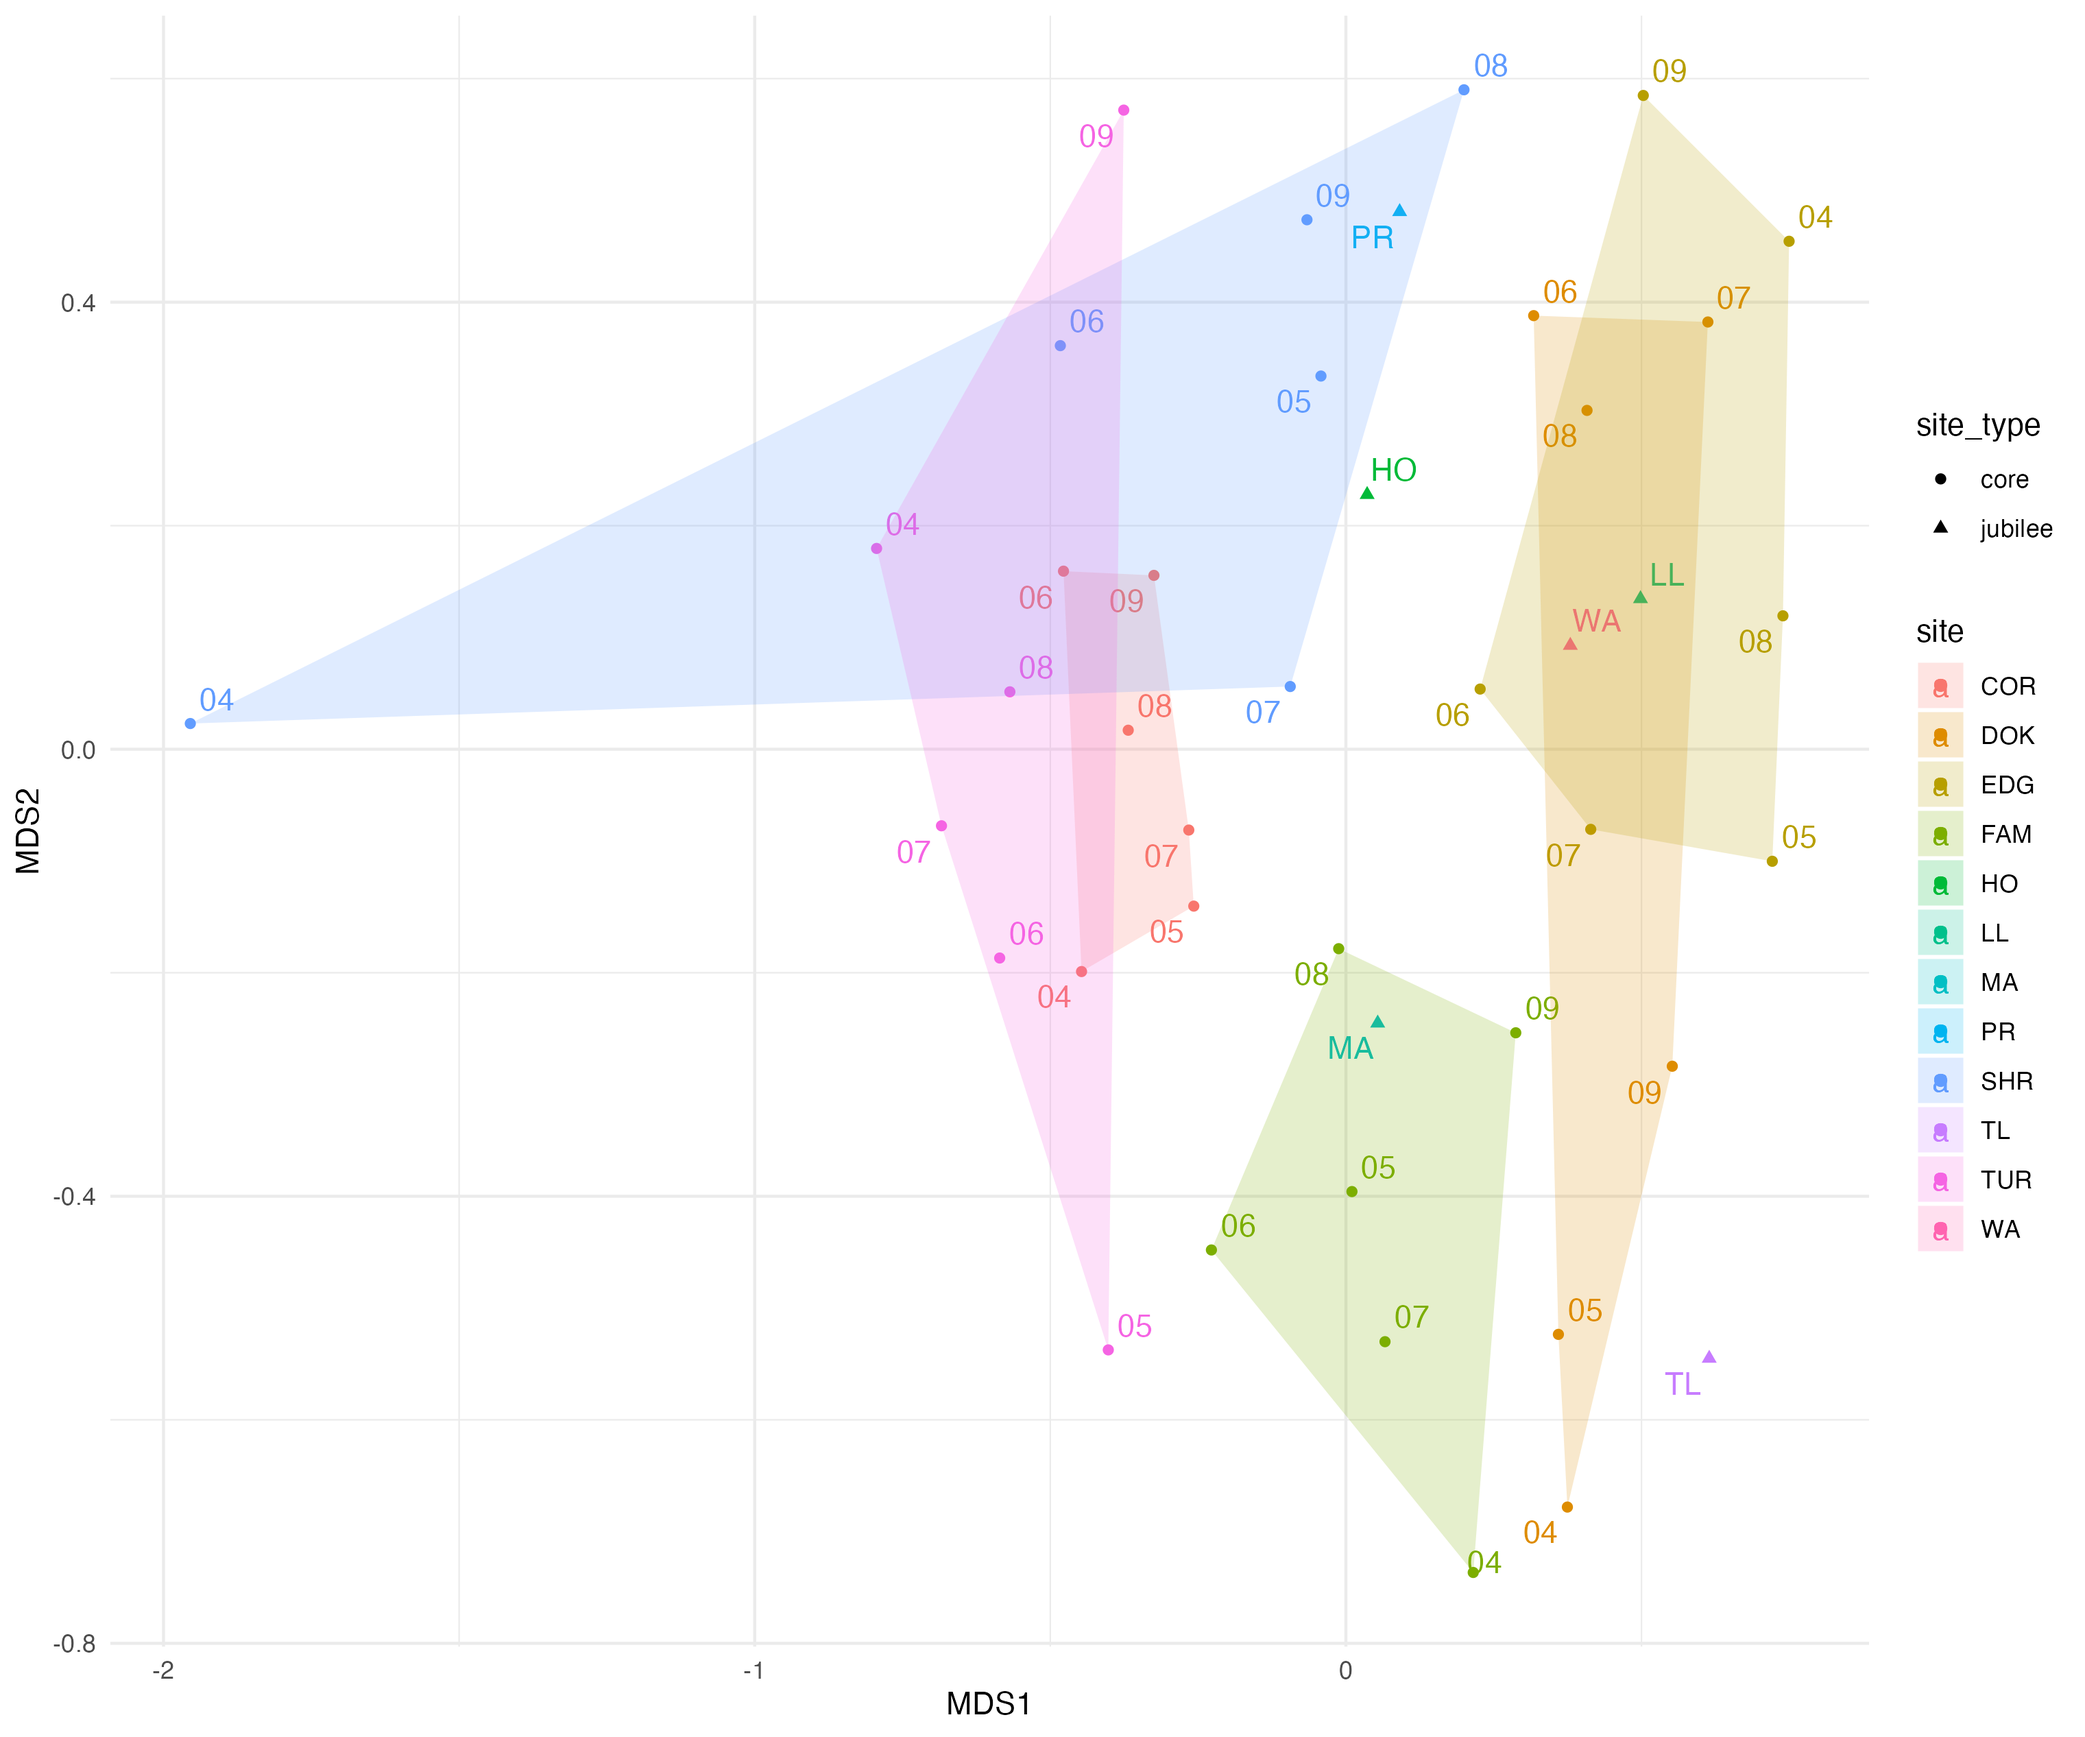
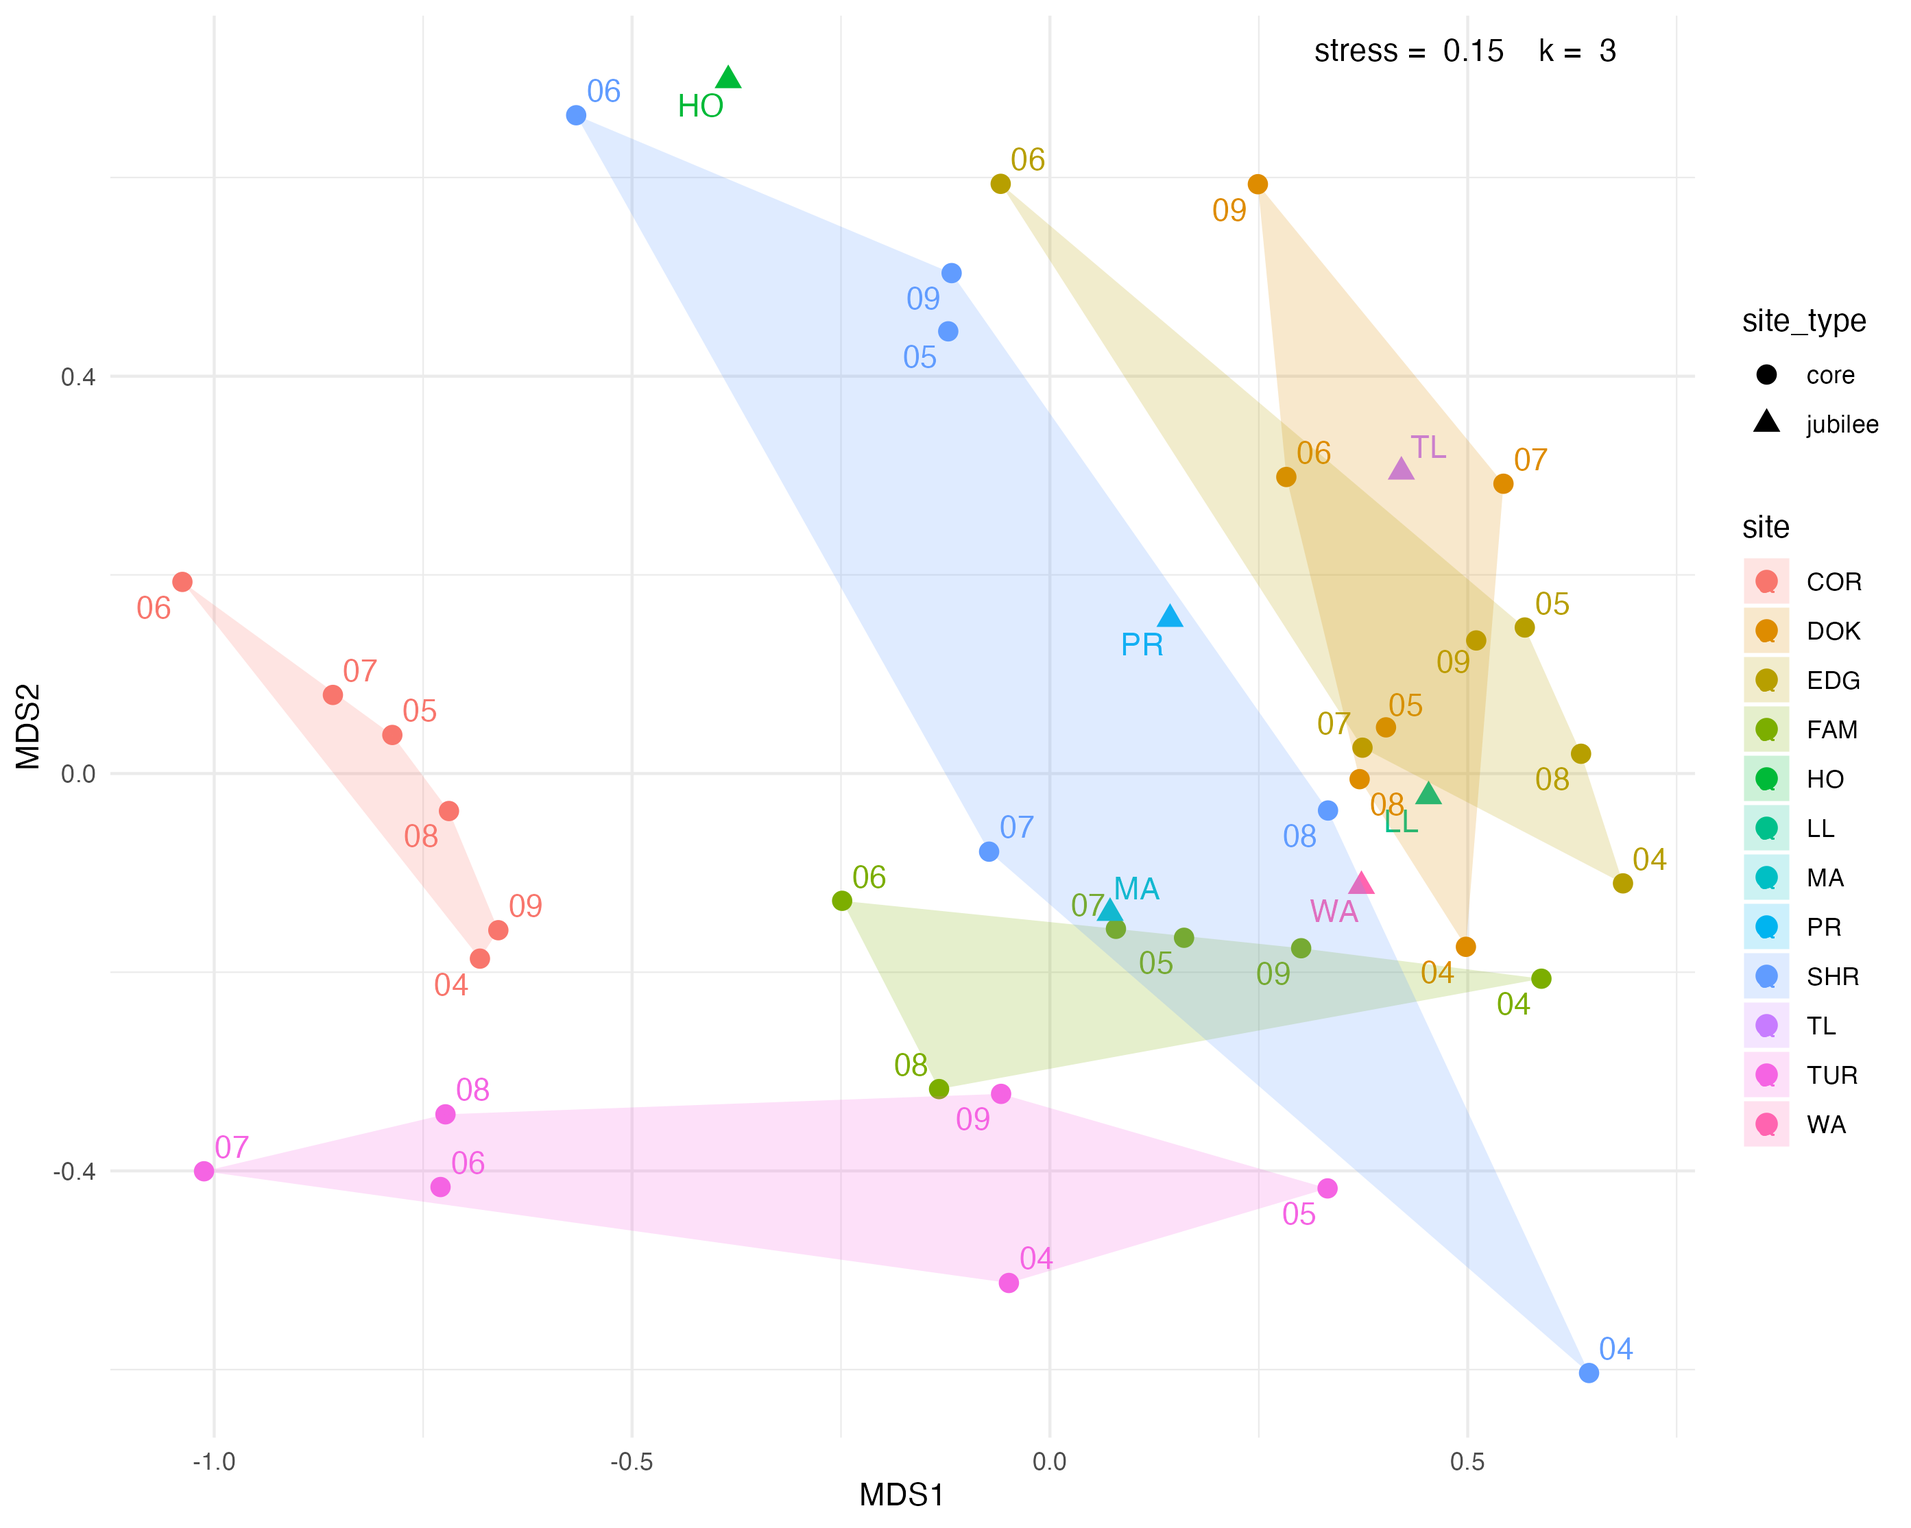
added some background on ordinations and updated nmds

diff --git a/docs/fish_results.html b/docs/fish_results.html
@@ -11,11 +11,11 @@
 
 <meta name="author" content="Emily Bishop" />
 
-<meta name="date" content="2024-03-08" />
+<meta name="date" content="2024-03-09" />
 
 <title>Fish Results</title>
 
-<script src="site_libs/header-attrs-2.21/header-attrs.js"></script>
+<script src="site_libs/header-attrs-2.25/header-attrs.js"></script>
 <script src="site_libs/jquery-3.6.0/jquery-3.6.0.min.js"></script>
 <meta name="viewport" content="width=device-width, initial-scale=1" />
 <link href="site_libs/bootstrap-3.3.5/css/flatly.min.css" rel="stylesheet" />
@@ -270,7 +270,7 @@ $(document).ready(function () {
 
 <h1 class="title toc-ignore">Fish Results</h1>
 <h4 class="author">Emily Bishop</h4>
-<h4 class="date">2024-03-08</h4>
+<h4 class="date">2024-03-09</h4>
 
 </div>
 
@@ -287,12 +287,24 @@ that month.</p>
 mean length (from field data), body shape, water column position,
 schooling behavior, migratory behavior, and feeding guild. Length is a
 continuous variable while the others are categorical.</p>
+<p>I used ordinations to view the differences between data points,
+specifically NMDS and PCoA. Both of these types of ordinations allow
+specification of a distance measure, which is good because euclidian
+distances aren’t appropriate for every data type (e.g. species
+abundances). These two methods differ in how they determine the axes.
+PCoAs use eigenanalysis, thereby imposing a linear relationship between
+samples, while NMDS uses an iterative, non-metric (rank-order), approach
+that doesn’t make any assumptions of linearity. The rank-order approach
+is good for when you don’t necessarily expect samples to be correlated,
+for example abundance counts of different species.</p>
 <div id="nmds-representing-abundances-by-site" class="section level2">
 <h2>NMDS representing abundances by site</h2>
 <p>NMDS is a distance based ordination technique. In this ordination,
 the space between the points represents the distance (dissimilarity)
 between them. Here I used Bray-curtis distances, a common method for
-abundance data.</p>
+abundance data. You can use any distance measure for NMDS, and it uses
+an iterative non-parametric approach to minimize stress (vs the
+eigenanalysis approach used in PCoA).</p>
 <div class="figure">
 <img src="figures/fish_nmds_sites.png" alt="Fig 1. A graphical visualization of the variation in abundances of different species between sites. Core sites are displayed with the corresponding month for each data point while jubilee sites are displayed with their site code." width="100%" />
 <p class="caption">
@@ -307,6 +319,10 @@ be similar, though there are some interesting patterns.</p>
 </div>
 <div id="fish-trait-pcoas" class="section level2">
 <h2>Fish trait PCoAs</h2>
+<p>Principle coordinates analysis (PCoA) can be applied to semi-metric
+distance measures because it finds euclidian distances that represent a
+set of non-euclidean distances. It then creates the ordination axes from
+the eigenvectors of the euclidean association matrix.</p>
 <div class="figure">
 <img src="figures/fish_pcoa.png" alt="Fig 2. A graphical visualization of the variation in traits among fish species" width="100%" />
 <p class="caption">

diff --git a/docs/site_libs/navigation-1.1/codefolding.js b/docs/site_libs/navigation-1.1/codefolding.js
@@ -31,7 +31,7 @@ window.initializeCodeFolding = function(show) {
     $(this).detach().appendTo(div);
 
     // add a show code button right above
-    var showCodeText = $('<span>' + (showThis ? 'Hide' : 'Code') + '</span>');
+    var showCodeText = $('<span>' + (showThis ? 'Hide' : 'Show') + '</span>');
     var showCodeButton = $('<button type="button" class="btn btn-default btn-xs btn-secondary btn-sm code-folding-btn pull-right float-right"></button>');
     showCodeButton.append(showCodeText);
     showCodeButton
@@ -57,7 +57,7 @@ window.initializeCodeFolding = function(show) {
     //   * Change text
     //   * add a class for intermediate states styling
     div.on('hide.bs.collapse', function () {
-      showCodeText.text('Code');
+      showCodeText.text('Show');
       showCodeButton.addClass('btn-collapsing');
     });
     div.on('hidden.bs.collapse', function () {
